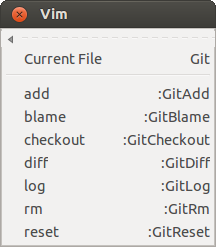
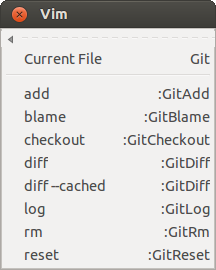
Add Git content
- Describe the new features.
- Update some images.

diff --git a/gitsupport/content.html b/gitsupport/content.html
@@ -1,10 +1,10 @@
 <!DOCTYPE HTML PUBLIC "-//W3C//DTD HTML 4.01//EN" "http://www.w3.org/TR/html4/strict.dtd">
 <html>
 	<head>
-		<title>VIM plug-in Git Support : Screen Shots</title>
+		<title>Git Support - CONTENT</title>
 		<base href="..">
 		<meta http-equiv="Content-Type" content="text/html; charset=ISO-8859-15">
-		<link rel="stylesheet" type="text/css" href="../vimstyle.css">
+		<link rel="stylesheet" type="text/css" href="vimstyle.css">
 	</head>
 	<body>
 		<!-- ::FEATURES::START:: -->
@@ -115,6 +115,12 @@
 								</tr>
 							</tbody>
 						</table>
+						<hr>
+						<p>Start <code>gitk</code> with arguments:</p>
+						<pre>:GitK --all</pre>
+						<p>Commands which require user interaction can be started in an external <code>xterm</code> (U*IX)
+						or using the Git Bash (under Windows):</p>
+						<pre>:GitBash add --patch %</pre>
 					</td>
 				</tr>
 				<!-- ###################################################################################-->
@@ -124,7 +130,11 @@
 					<td><img src="gitsupport/git_menu_file.png"> </td>
 					<td>
 						<h3>Menu <i>File</i> : manage the current file</h3>
-						Acts on the file in the current buffer.
+						<p>Acts on the file in the current buffer.</p>
+						<p>Use the menu to <b>add</b>, <b>checkout</b>, and <b>reset</b> the file.
+						Show the unstaged and staged changes, using <b>diff</b> and <b>diff --cached</b>, respectively.</p>
+						<p>Run <b>blame</b>, which supports ranges.
+						Show the <b>log</b> of the file, which includes the diffstat for every commit.</p>
 					</td>
 				</tr>
 				<!-- ###################################################################################-->
@@ -178,6 +188,25 @@ Conflicts:
 						<hr>
 						To perform a fast-forward only merge:
 						<pre>custom -> merge, fast-forward only</pre>
+					</td>
+				</tr>
+				<!-- ###################################################################################-->
+				<!-- ################################## MENU EDIT ######################################-->
+				<!-- ###################################################################################-->
+				<tr>
+					<td><img src="gitsupport/git_menu_edit.png"> </td>
+					<td>
+						<h3>Menu <i>Edit</i> : jump to config files</h3>
+						<p>Open the config file of the repository in a new window ...</p>
+						<pre>:GitEdit config-local</pre>
+						or open the global one:
+						<pre>:GitEdit config-global</pre>
+						The command <code>:GitEdit</code> has tab-completion.
+						<hr>
+						<p>Jump to the <code>.gitignore</code> file of the repository ...</p>
+						<pre>:GitEdit ignore-local</pre>
+						or the private one <code>.git/info/exclude</code>:
+						<pre>:GitEdit ignore-private</pre>
 					</td>
 				</tr>
 			</tbody>

diff --git a/gitsupport.html b/gitsupport.html
@@ -219,6 +219,12 @@
 								</tr>
 							</tbody>
 						</table>
+						<hr>
+						<p>Start <code>gitk</code> with arguments:</p>
+						<pre>:GitK --all</pre>
+						<p>Commands which require user interaction can be started in an external <code>xterm</code> (U*IX)
+						or using the Git Bash (under Windows):</p>
+						<pre>:GitBash add --patch %</pre>
 					</td>
 				</tr>
 				<!-- ###################################################################################-->
@@ -228,7 +234,11 @@
 					<td><img src="gitsupport/git_menu_file.png"> </td>
 					<td>
 						<h3>Menu <i>File</i> : manage the current file</h3>
-						Acts on the file in the current buffer.
+						<p>Acts on the file in the current buffer.</p>
+						<p>Use the menu to <b>add</b>, <b>checkout</b>, and <b>reset</b> the file.
+						Show the unstaged and staged changes, using <b>diff</b> and <b>diff --cached</b>, respectively.</p>
+						<p>Run <b>blame</b>, which supports ranges.
+						Show the <b>log</b> of the file, which includes the diffstat for every commit.</p>
 					</td>
 				</tr>
 				<!-- ###################################################################################-->
@@ -284,12 +294,31 @@ Conflicts:
 						<pre>custom -> merge, fast-forward only</pre>
 					</td>
 				</tr>
+				<!-- ###################################################################################-->
+				<!-- ################################## MENU EDIT ######################################-->
+				<!-- ###################################################################################-->
+				<tr>
+					<td><img src="gitsupport/git_menu_edit.png"> </td>
+					<td>
+						<h3>Menu <i>Edit</i> : jump to config files</h3>
+						<p>Open the config file of the repository in a new window ...</p>
+						<pre>:GitEdit config-local</pre>
+						or open the global one:
+						<pre>:GitEdit config-global</pre>
+						The command <code>:GitEdit</code> has tab-completion.
+						<hr>
+						<p>Jump to the <code>.gitignore</code> file of the repository ...</p>
+						<pre>:GitEdit ignore-local</pre>
+						or the private one <code>.git/info/exclude</code>:
+						<pre>:GitEdit ignore-private</pre>
+					</td>
+				</tr>
 			</tbody>
 		</table>
 		<!-- ###################################################################################-->
 		<!-- ################################## FOOTER #########################################-->
 		<!-- ###################################################################################-->
-		<p>Page updated: February 20 2016 &nbsp;&nbsp;/&nbsp;&nbsp;
+		<p>Page updated: March 27 2016 &nbsp;&nbsp;/&nbsp;&nbsp;
 		Mail to: <a href="mailto:wolfgang-mehner@web.de">Wolfgang Mehner</a></p>
 	</body>
 </html>
